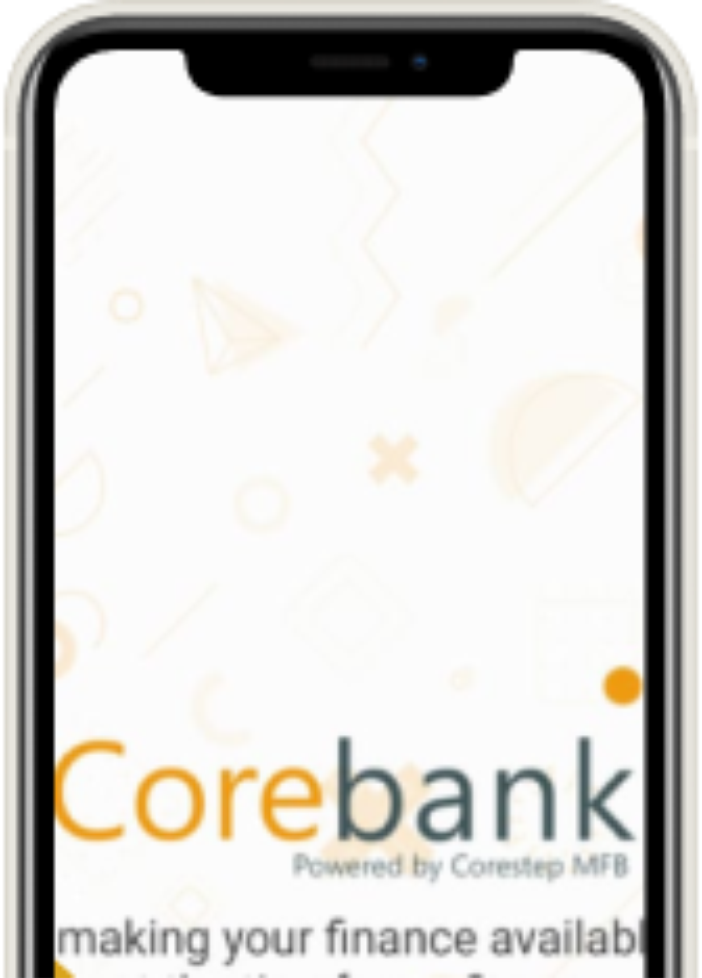
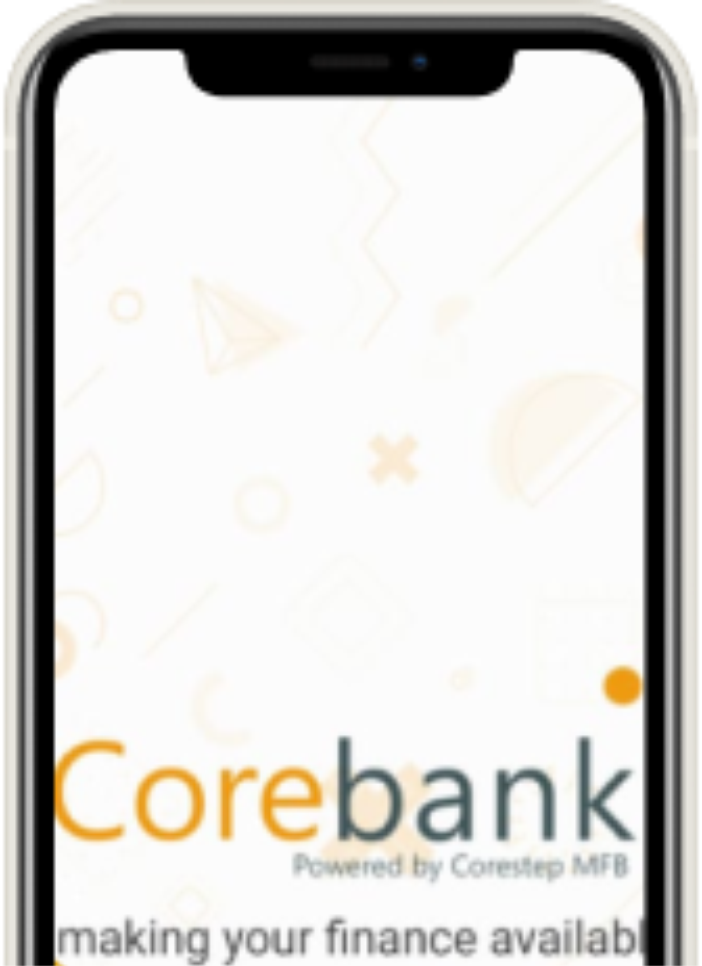
fifth section updated

diff --git a/assets/styles/style.css b/assets/styles/style.css
@@ -557,12 +557,13 @@ body {
   display: none;
 }
 
+.fourthSection .corebankmobile {
+  border: 2px solid red;
+  margin-bottom: -7px;
+}
+
 .fourthSection .corebankmobile img {
-  -webkit-box-pack: end;
-      -ms-flex-pack: end;
-          justify-content: end;
   width: 50vw;
-  padding: 0px 10px;
 }
 
 .fourthSection .fourthSectionDiv2 {

diff --git a/assets/styles/style.scss b/assets/styles/style.scss
@@ -489,12 +489,12 @@ body {
     display: none;
   }
   .corebankmobile {
-    // border: 2px solid blue;
+    border: 2px solid red; 
+    margin-bottom: -7px;
     // margin-right: -50px;
     img {
-      justify-content: end;
+      // justify-content: end;
       width: 50vw;
-      padding: 0px 10px;
     }
   }
   .fourthSectionDiv2 {
